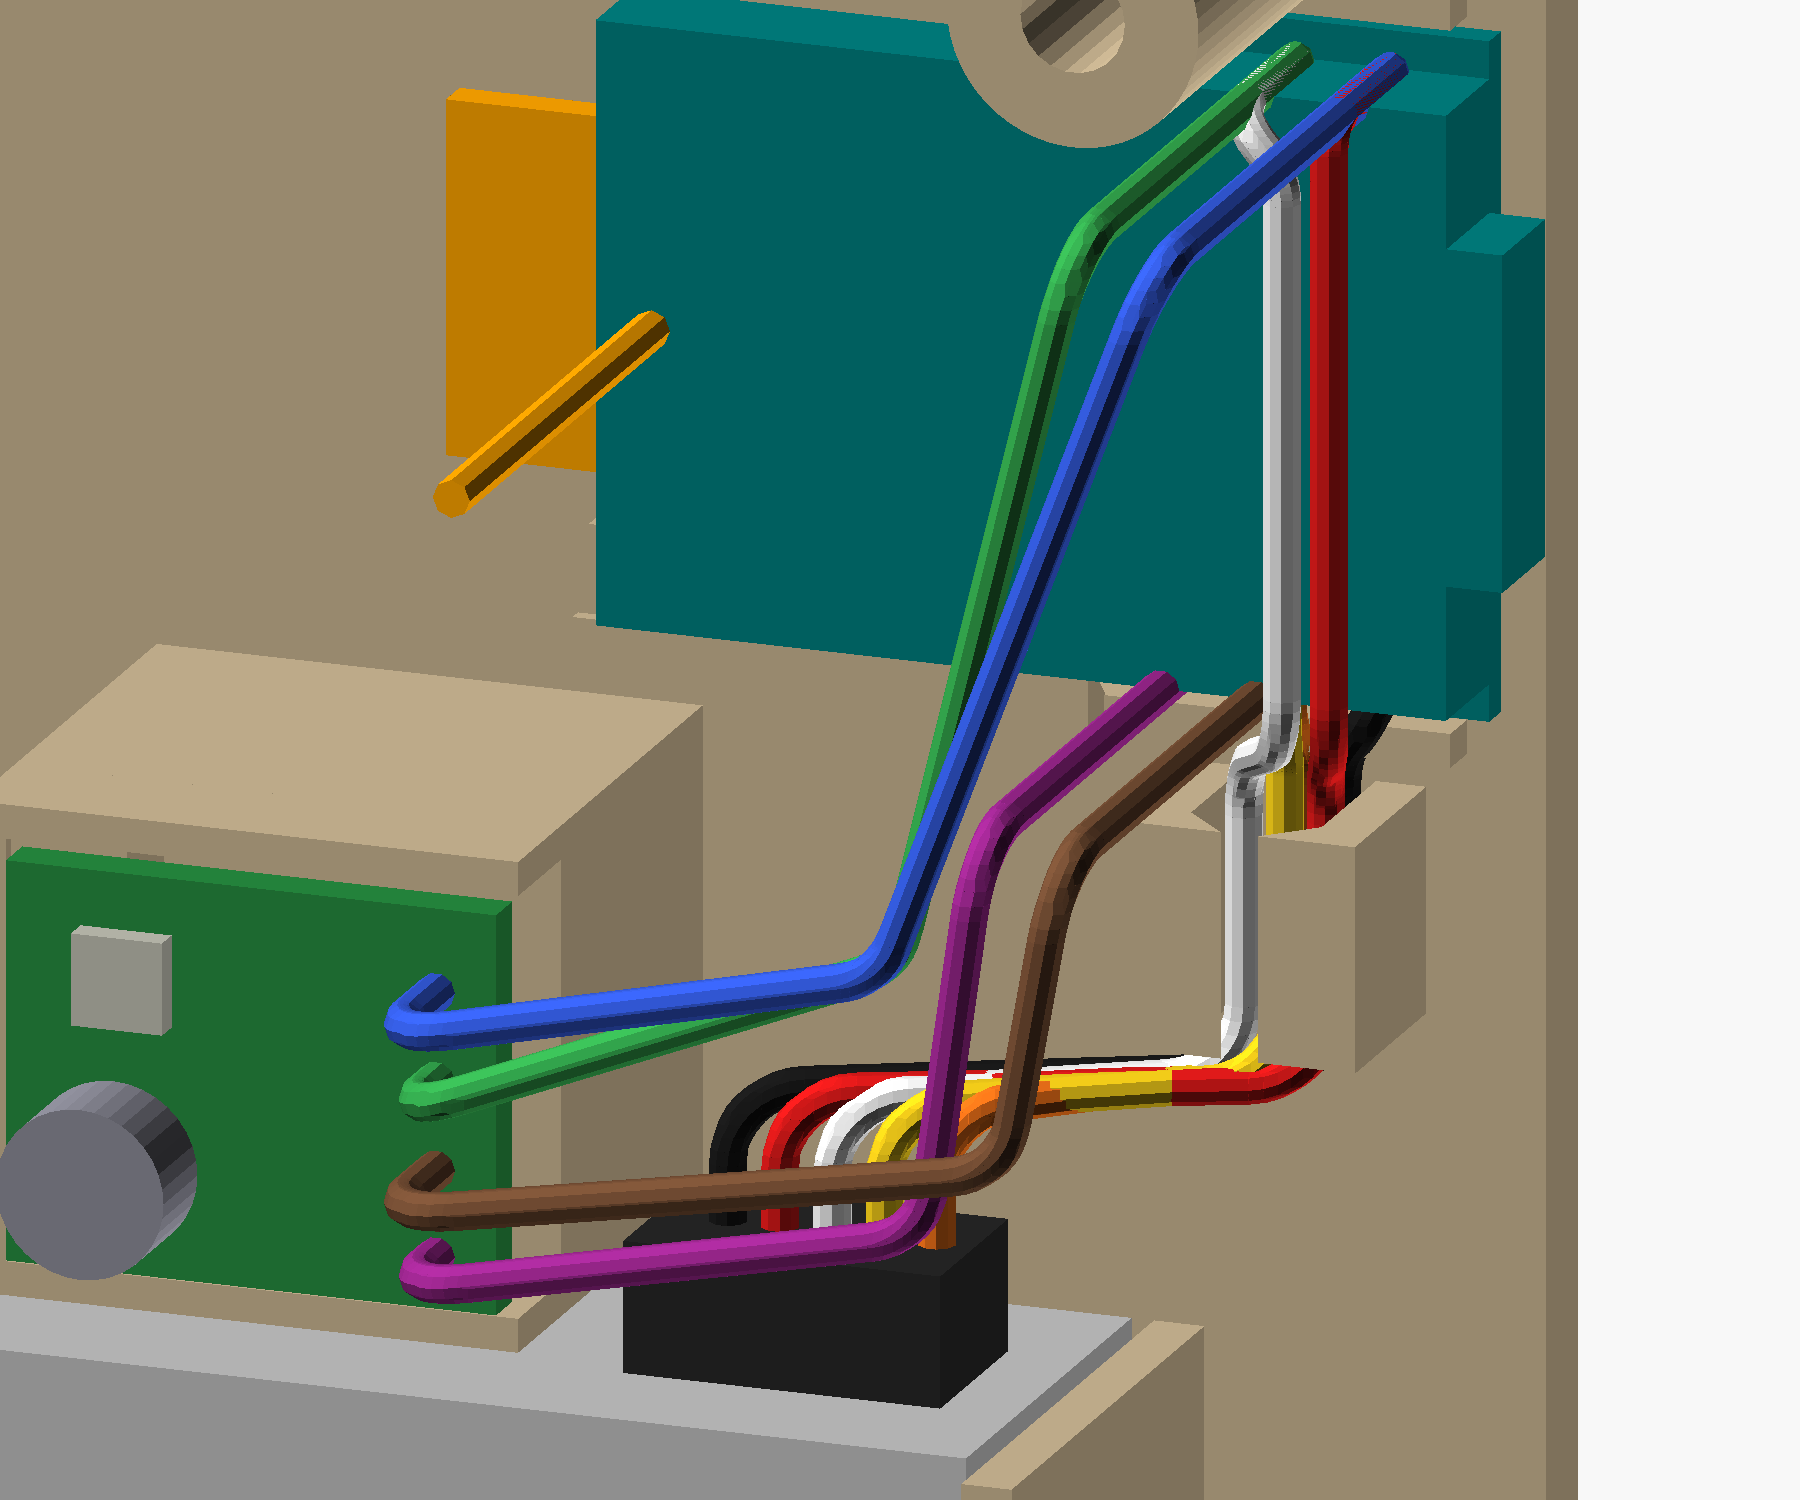
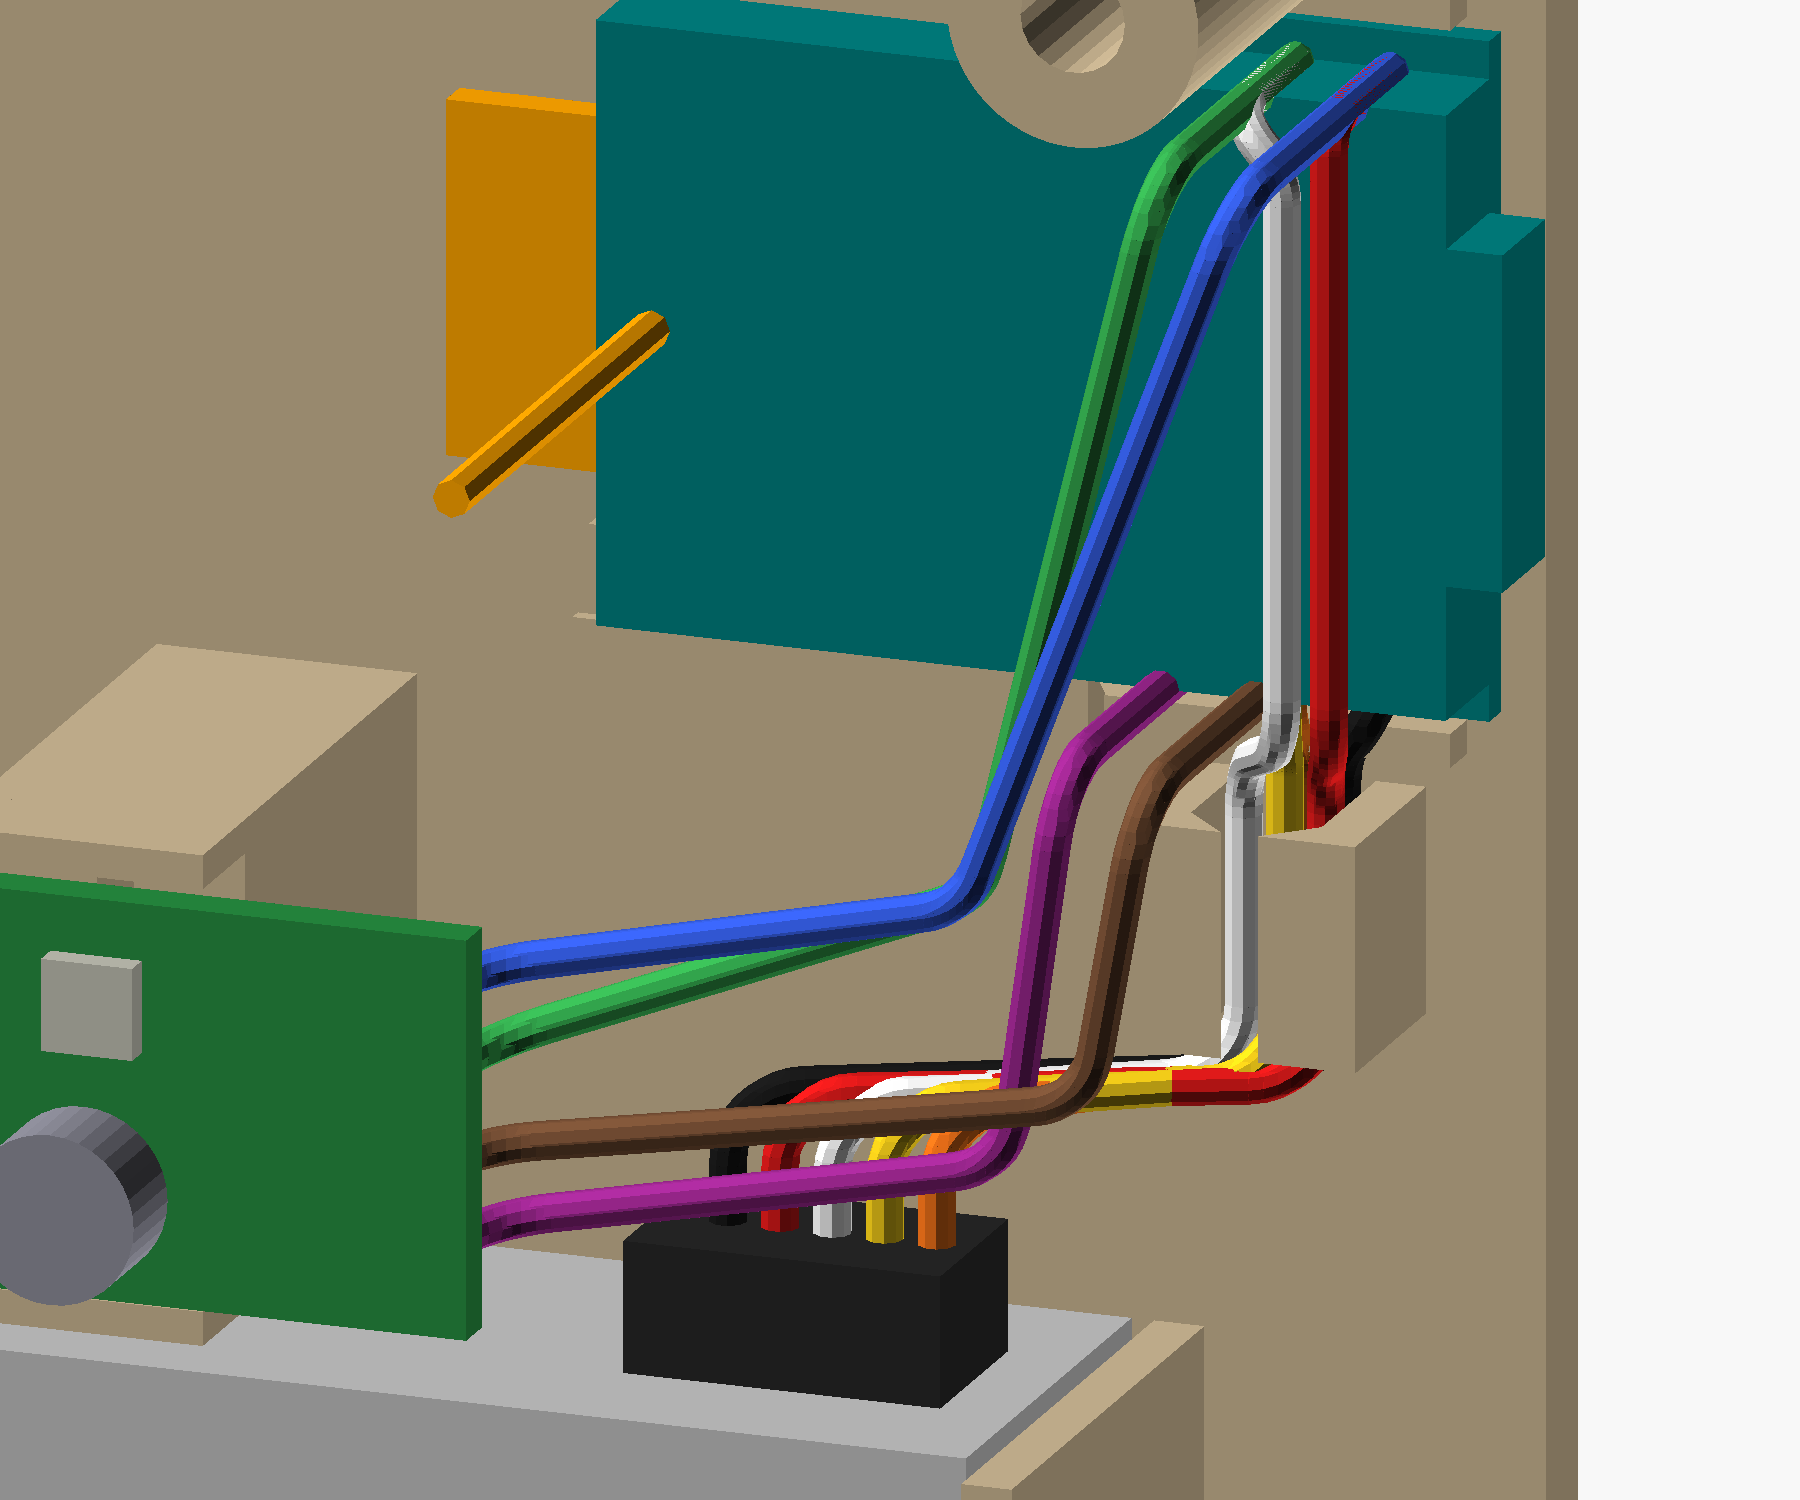
feat(models): print-chamber box - SGP41 wires out of its back
Alon, 2 Oct 2026: "the wires could be solderd to come out on the back
of sgp41. make 8 smaller." 8 is the pedestal.

The pedestal now stands under the module's far half only: from the far
rim to a rim's width past the standoff. The ledge, the standoff and the
pilot are unchanged and stay on it; an assert keeps the ledge on the
block. Behind the pin half there is nothing down to the plate, and the
four wires leave the board's back there.

wire_room keeps its 5.0 mm but now means the room behind the pin half,
not in front. check_components holds the pedestal out of it: the old,
full-length pedestal (gy_ped_x0 22.6) gives 171.5 mm3. The room in
front is the screw's head again, so the module moves 2.3 mm forward
and the sensor is back to 2.09-2.89 mm behind its vents, from
4.29-5.09 in e17100f.

The drawn routes leave the board's back straight for 1 mm, bend on
2 mm and run across 13.7-14.8 mm from the plate, in front of the
SPS30's lead and through the column kept for it. That column is kept
clear of printed parts, not of wires; the drawn lead is 5 mm behind
them, and the wire-to-wire check covers it. Two layers still, swapped
from the front-exit version: with the wires behind the module, a near
layer's last leg crosses the far layer, and SDA came within 0.93 mm of
VIN until SDA and GND took the near one.

A new view, check_wires, intersects the back plate with the SGP41's
wires. It is empty; wire_stub 9 (both layers back to about 6 mm from
[…]

Changed region(s): [[0.0, 0.092, 0.7156, 0.92]]

diff --git a/models/print-chamber-box/README.md b/models/print-chamber-box/README.md
@@ -175,9 +175,10 @@ In this order, all before the cover:
 1. **Slide the SuperMini in** from its USB-C side, antenna end first, under the rails' lips until it meets
    the stops.
 2. **Set the SPS30 in from the front**, between its channel walls and onto its ledges.
-3. **Screw the GY-SGP41 down** with the M2.5 × 8, through its mounting hole into the standoff.
-4. **Wire it** — next picture. The SPS30's five wires press into the cable channel; the SGP41's four go
-   straight across in front.
+3. **Solder the SGP41's four wires first, then screw it down** with the M2.5 × 8, through its mounting
+   hole into the standoff. Its wires come out of its back, which cannot be reached once it is down.
+4. **Wire it** — next picture. The SPS30's five wires press into the cable channel; the SGP41's four run
+   from behind it across to the board.
 5. **Put the cover on** with the four M3 × 14 self-tapping screws. Its partition rib holds the SPS30, its
    thinned wall closes behind the SuperMini.
 
@@ -186,8 +187,8 @@ In this order, all before the cover:
 ![the wiring, closer](assembly-wiring-detail.png)
 
 The routes are illustrative — a wire bends where it likes — but each ends on the pin the wiring table
-gives it. The SPS30's five run up the cable channel. The SGP41's four go straight to the board in front of
-everything else, with no bend tighter than 2 mm; GPIO5 and GPIO6 then cross the front of the board's USB-C
+gives it. The SPS30's five run up the cable channel. The SGP41's four come out of its back and run across
+to the board, with no bend tighter than 2 mm; GPIO5 and GPIO6 then cross the front of the board's USB-C
 end to its upper edge. The SPS30's colours are the meter-checked ones; the SGP41's are stand-ins for
 whatever hookup wire is used.
 
@@ -214,10 +215,12 @@ Drawn by [`feature-map.scad`](feature-map.scad), which includes the model, so th
    the socket in its snug opening holds the other end. No tape.
 7. **Stops** — over the two corners of the board's antenna end. They take the push of plugging the USB-C
    cable in; the middle stays open for the antenna loop.
-8. **Pedestal** — lifts the SGP41 forward, so its sensor sits 4–5 mm behind its vents instead of 16 mm.
+8. **Pedestal** — lifts the SGP41 forward, so its sensor sits 2–3 mm behind its vents instead of 16 mm.
+   It stands under the module's far half only: behind the pin half there is nothing down to the plate,
+   because the wires come out of the module's back there.
 9. **Ledge, standoff and rim** — the SGP41 rests on a strip along its far end, kept 0.5 mm short of the
    parts on its underside, and on a round standoff under its mounting hole. The rim locates it on three
-   sides and is open at the pin end, where the wires leave.
+   sides along the pedestal, and is open towards the pins.
 10. **Pilot** — for the M2.5 × 8 screw through the module's mounting hole into the standoff.
 11. **Cable channel** — 6 mm long (`wire_ch_l`), upright directly under the board's three power pins. The wires from both
     sensors press in from the front past a 45-degree lip on each wall, run up it, and leave its top end
@@ -294,11 +297,12 @@ towards the board's pin end, so its four wires head straight there.
 
 **It rests on two bare patches of its underside, so its parts never bear load.** One is the strip along
 its far end: the nearest part is 3.31 mm in (`gy_bare`, measured), and the ledge stops 0.5 mm short of it.
-The other is round the mounting hole, where a 4 mm standoff carries it. Its pin end overhangs. The ledge is tall enough that the parts on the thinnest plausible board clear the floor
+The other is round the mounting hole, where a 4 mm standoff carries it. Its pin half overhangs, with
+nothing behind it down to the plate: the pedestal stops a rim's width past the standoff. The ledge is tall enough that the parts on the thinnest plausible board clear the floor
 by `gap` (1 mm): the floor prints as a solid skin over infill and can come out a few tenths uneven.
 Because the board touches nothing but the ledge and a rim on three sides, its thickness does not matter:
 anywhere from `gy_pcb_min` to `gy_pcb_max`, the rim catches its edge and the room in front is kept. The
-rim is open at the pin end, where the wires leave.
+rim is open towards the pins.
 
 **An M2.5 × 8 screw holds it down, through its mounting hole into a blind 7.6 mm pilot in the standoff.**
 The hole is by the long edge away from the sensor, and the screw clamps only the bare patch round it. That
@@ -309,11 +313,15 @@ so the M2.5 screw passes it with room to spare, and the rim, not the screw, loca
 of the pocket the hole sits by comes from photo 1, so the pilot is only as right as that reading; seat the
 module in the printed pocket and look before driving the screw. The screw cuts its own thread in the pilot
 (`gy_pilot_d`, an untested fit). An M2 screw is not the fallback for a smaller hole: its pilot would be
-under the 2 mm minimum. The room in front of the board is set by its wires: `wire_room`, 5 mm at the
-thickest board, more than the screw's 2.5 mm head needs. Each wire leaves its pad straight for 1 mm and
-bends over on 2 mm, and where two cross one lies over the other — 4.6 mm in all. It was 2.5 mm until
-2 Oct 2026, which left room for a bend but not a gentle one; the sensor sat 2.1–2.9 mm behind its vents
-then, and sits 4.3–5.1 mm behind them now.
+under the 2 mm minimum. The room in front of the board is the screw's head, 2.5 mm tall, plus
+`part_fit` to the cover.
+
+**Its wires come out of its back.** Each is soldered so it leaves its pad from the back of the board,
+straight for 1 mm, then bends over on 2 mm; where two cross, one lies behind the other — 4.6 mm in all.
+`wire_room`, 5 mm, is the room kept behind the pin half for that, and the collision check holds the
+pedestal out of it. The wires came out of the front until 2 Oct 2026, first with 2.5 mm to bend in —
+room for a bend, but not a gentle one — and then with 5 mm, which pushed the sensor to 4.3–5.1 mm behind
+its vents. Out of the back they cost the sensor nothing: it is 2.1–2.9 mm behind them again.
 
 The pedestal clears the cover's baffle over the sensor; the box grew 0.95 mm taller for that, to 88.9 mm.
 It also stands under the board's antenna end, 6.5 mm below the loop. That was the one place it fits
@@ -357,12 +365,15 @@ Why the SGP41's VIN must be 3V3 is in the same file.
   GPIO5 and GPIO6 are on its upper edge, so their wires cross the board's front **over its USB-C end**,
   about 8 mm out. GPIO6's pad is straight above GND's, so its wire rises half a pin aside, between the
   5V and GND pads: GND's own pad stays open to the SGP41's wire, which comes in from the front.
-- **The SGP41's four wires do not use the channel.** They leave its pads from the sensor side, straight
-  towards the cover, bend over, and run straight across to the board in front of everything else: along
-  under the board until they are past its middle, then up to their pins and straight back into them.
+- **The SGP41's four wires do not use the channel.** Solder them so they come out of the module's back,
+  before it is screwed down. They leave straight towards the plate, bend over at least 1 mm from the
+  board, and run across to the SuperMini about 13–15 mm out from the plate: in front of the SPS30's lead,
+  along under the board until they are past its middle, then up to their pins and straight into them.
   The module's pins run SDA, SCL, GND, VIN down its edge, the reverse of the board's order, so two pairs
-  cross; one wire lies over the other there. Solder them to the module first, bend each over at least
-  1 mm out from its joint, and cut it to length at its pad.
+  cross; one wire lies behind the other there. Cut each to length at its pad.
+- **Over the SPS30's lead,** the SGP41's wires pass through the column kept for that lead — kept clear
+  of printed parts, not of wires. In the drawing they pass 5 mm in front of the lead's own wires, and the
+  wiring view checks that no two wires come within a wire's width of each other.
 - **Never:** across the board's antenna half, in front of the antenna wire, or anywhere in the window or
   the air gap in front of the SPS30.
 
@@ -423,14 +434,15 @@ Four more checks, which `scad-check.sh` does not run:
 - `-D 'part="check_parts"'` intersects the two parts. The result must have **zero volume** — they meet at
   the plate's face and the boss tops, and nowhere else. Positive controls: `part_fit = -0.6`, with the
   cable channel's walls held where they are (`wch_x0 = 3.2`, `wch_x1 = 9.4` — otherwise the negative fit
-  trips the channel's assert first), measured 351.8 mm³, and `gz0 = 44.5` (the SGP41's pedestal lowered
-  into the cover's baffle) 7.2 mm³, so the check does see a real overlap.
+  trips the channel's assert first), measured 359.8 mm³, and `gz0 = 44.5` (the SGP41's pedestal lowered
+  into the cover's baffle) 10.4 mm³, so the check does see a real overlap.
 - `-D 'part="check_components"'` intersects both parts with the sensor, the boards, the antenna wire
   and loop, the USB-C shell, the body of the largest compliant plug — seated with the board pushed
   against its stops — the column the SPS30's lead rises through, the SGP41 at every board thickness
-  within the bounds, and its screw's head. It must be **empty**. Positive controls: `sm_pocket_h = 17` (a
-  pocket narrower than the board) measured 23.5 mm³, `gx0 = 15` (the pedestal moved into the lead's
-  column) 562.3 mm³, `gy_strip = 4` (the ledge reaching under the SGP41's parts) 6.5 mm³,
+  within the bounds, the room behind its pin half where its wires leave (`wire_room` deep), and its
+  screw's head. It must be **empty**. Positive controls: `sm_pocket_h = 17` (a pocket narrower than the
+  board) measured 23.5 mm³, `gx0 = 12` (the pedestal moved into the lead's column) 187.1 mm³,
+  `gy_ped_x0 = 22.6` (the pedestal as long as the module again, under its pins) 171.5 mm³, `gy_strip = 4` (the ledge reaching under the SGP41's parts) 6.5 mm³,
   `gy_standoff_d = 5.6` (the standoff wider than the bare patch) 2.8 mm³, `wch_cx = 17` with the walls'
   extent left as set (the cable channel moved into the lead's column, past its assert) 16.2 mm³, and `gy_floor = 17` (the SGP41 pushed towards the cover, its screw's
   head into the front) 12.5 mm³, and `sm_lip_l = 2.5` (the rails' lips reaching onto the SuperMini's
@@ -449,12 +461,16 @@ Run both with `outlet_at_left` set each way, too (`-D outlet_at_left=true`). The
 check run one way only has passed a mirrored mistake before.
 
 `assembly-views.scad` checks the SGP41's wire routes whenever it draws the wiring view: no bend
-tighter than 2 mm, the outer wire clear of the cover at the thickest board, no wire within a wire's width
-of another (except two that meet at the same pad, within 5 mm of it), and none in front of the board's
-antenna half. OpenSCAD still exits 0 when one fails, so read the output for `ERROR: Assertion`. Positive
-controls, each failing its own check: `wire_room = 4.0` (0.6 mm into the cover), `lay_gap = 0` (both
-layers in one, 0.04 mm apart where they cross), `up_dx = -2` (GPIO5 and GPIO6 rising in front of the
-antenna half), `wire_stub = -1.5` (a 0.5 mm bend), and the SPS30's white wire rising straight in front of
-the GND pad, as it did before 2 Oct 2026 (0.04 mm). The routes are laid out for the sensor as built: with
-`outlet_at_left = true` both boards turn end for end, and the wiring view stops with an assert rather
+tighter than 2 mm, the routes within the room `wire_room` keeps behind the board, no wire within a wire's
+width of another (except two that meet at the same pad, within 5 mm of it), and none in front of the
+board's antenna half. OpenSCAD still exits 0 when one fails, so read the output for `ERROR: Assertion`.
+Positive controls, each failing its own check: `wire_room = 4.0` (0.6 mm past the room), `lay_gap = 0`
+(both layers in one, 0.04 mm apart where they cross), `up_dx = -2` (GPIO5 and GPIO6 rising in front of
+the antenna half), `wire_stub = -1.5` (a 0.5 mm bend), and the SPS30's white wire rising straight in front
+of the GND pad, as it did before 2 Oct 2026 (0.06 mm). The routes are laid out for the sensor as built:
+with `outlet_at_left = true` both boards turn end for end, and the wiring view stops with an assert rather
 than draw routes that do not fit.
+
+`-D 'view="check_wires"'`, exported to STL, intersects the back plate with the SGP41's wires. It must be
+**empty**, so OpenSCAD writes no file. Positive control: `wire_stub = 9` (both layers moved back to about
+6 mm from the plate, into the cable channel's walls) 2.4 mm³.
